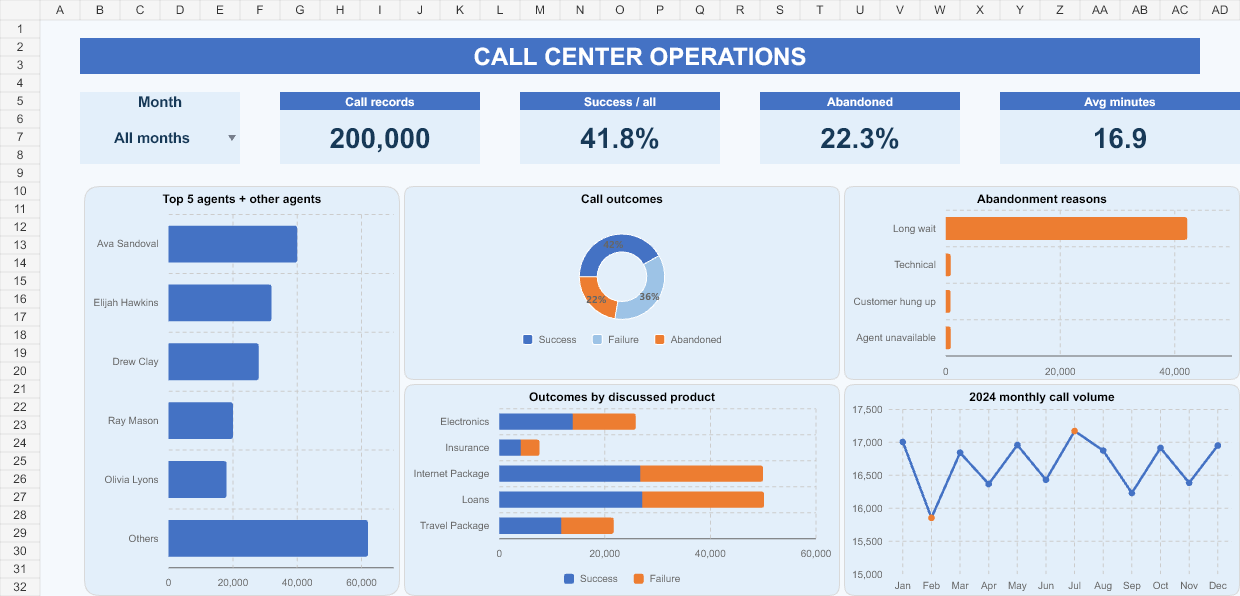
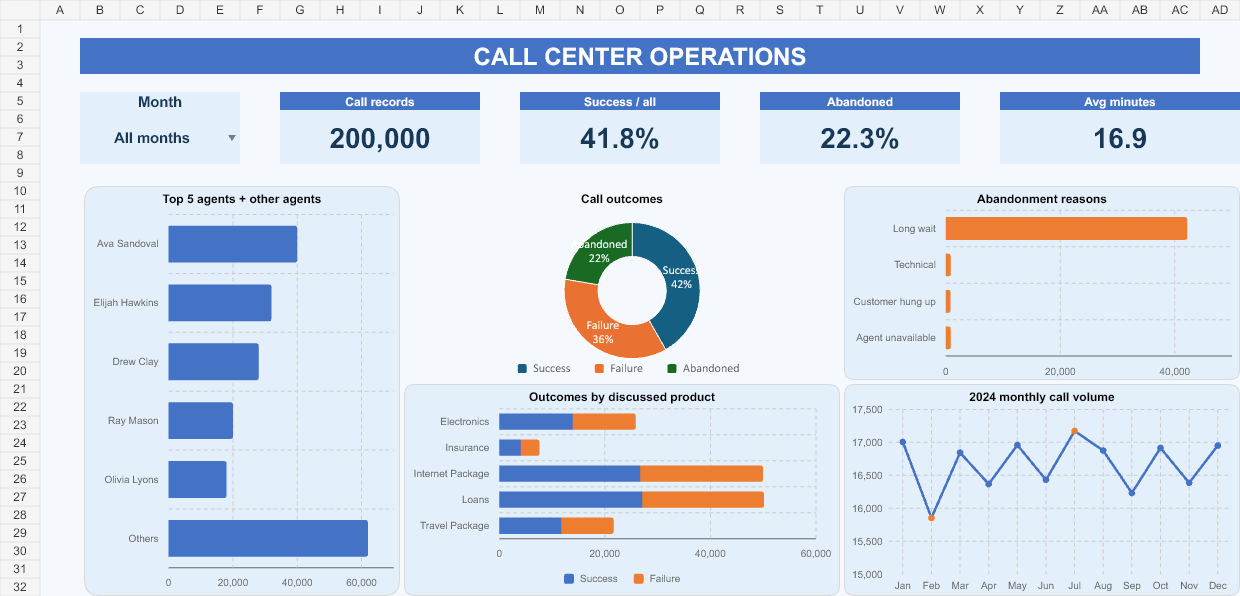
Fix Excel chart compatibility

Changed region(s): [[0.3984, 0.3624, 0.6129, 0.6342]]

diff --git a/README.md b/README.md
@@ -12,7 +12,7 @@ Excel analysis of 200,000 call records from 2024, covering outcomes, abandonment
 - There are 44,644 abandoned records, or 22.32% of all calls.
 - Long Wait Time is recorded on 42,160 abandoned calls: 94.44% of abandoned records.
 
-The compact blue/orange dashboard opens at 100% zoom. It combines top-five agent volumes plus the remaining agents, an outcome doughnut, stacked product outcomes, abandonment-reason bars and a monthly call trend with highlighted minimum/maximum points. The reason distribution suggests investigating queue access using actual waiting-time and routing data.
+The dashboard opens at 100% zoom. It combines top-five agent volumes plus the remaining agents, an outcome doughnut, stacked product outcomes, abandonment-reason bars and a monthly call trend with highlighted minimum/maximum points. The reason distribution suggests investigating queue access using actual waiting-time and routing data.
 
 ## Workbook
 
@@ -32,4 +32,4 @@ The public workbook excludes customer names, age, gender, state and income. Reco
 
 Open in Excel with Automatic calculation. Append operational rows inside **CallData**, retaining headers and numeric dates. Extend lists or calendar for new agents, products or years. Weeks start on Monday; growth comparisons exclude partial weeks. There is no external-file refresh connection.
 
-Source values, metric formulas, chart caches, denominators, report reconciliations and saved 100% zoom were checked. Desktop Excel recalculation has not been independently verified.
+Source values, metric formulas, chart caches, denominators, report reconciliations and saved 100% zoom were checked. Both the complete workbook and its charts were opened in Desktop Excel without a recovery warning.
